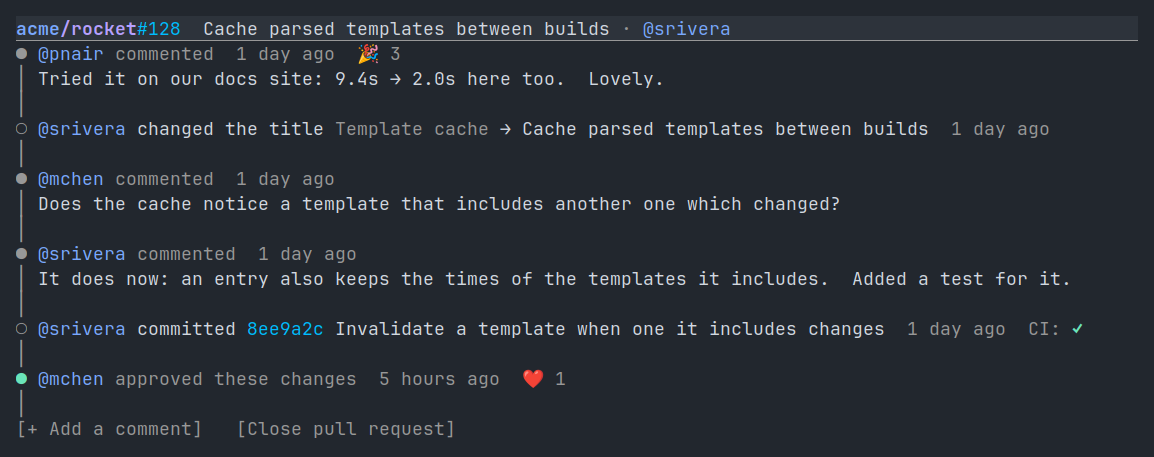
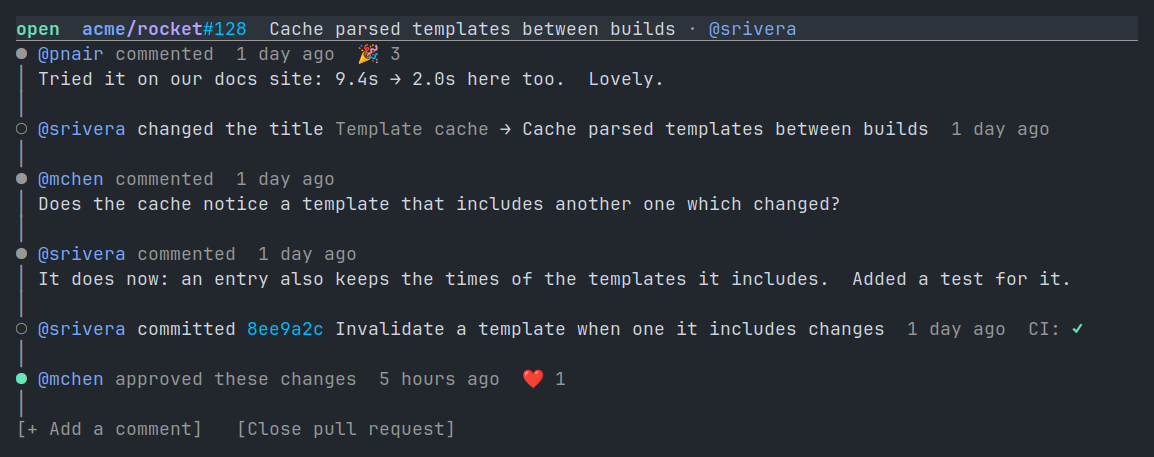
Lead a pinned title with the page's status
The state of a PR or issue, and the status of a run, job or workflow,
sat on the line under the title, so it scrolled away while the title
stayed pinned.  The header builders mark it octocat-page-status, and the
pinned copy starts with it.  The UI conventions say to mark a page's
status so.

Changed region(s): [[0.0, 0.0306, 0.6863, 0.0919]]

diff --git a/docs/user-interface-conventions.md b/docs/user-interface-conventions.md
@@ -668,6 +668,12 @@ is first.  When the line holds more, as the user page's avatar beside
 the name, give the title text an `octocat-page-title` property: only
 that is pinned.
 
+A page's status, such as an issue's or PR's state or a run's
+conclusion, is part of what it is, so it stays in view too: give it an
+`octocat-page-status` property, in the page's first few lines, and it
+leads the pinned copy (`octocat-vui-sticky-status`).  The state of
+`octocat-vui--detail-header` and `octocat-vui-actions-header` has it.
+
 Whatever stays pinned while the page scrolls under it, as this title,
 is parted from the content below by an underline across the window
 (face `octocat-sticky-title`), so the copy doesn't read as a line of

diff --git a/docs/usage.md b/docs/usage.md
@@ -539,7 +539,9 @@ On Doom Emacs, let `q` reach octocat pages with
 ### The title row in the header line
 
 Scrolled past its first line, a page shows that line, its title row,
-in the header line, so you can tell which PR or file you are in.
+in the header line, so you can tell which PR or file you are in.  A
+PR's, issue's, run's, job's or workflow's status leads it: `open`,
+`merged`, `success`.
 Each window pins it by itself, and only once the row is out of view:
 at the top of a page there is no header line.  The copy is not buffer
 text, so it doesn't affect the region, copying or search.  Clicking it

diff --git a/CHANGELOG.md b/CHANGELOG.md
@@ -4,6 +4,7 @@ All notable changes to this project will be documented in this file.
 The format is based on [Keep a Changelog](https://keepachangelog.com/en/1.0.0/).
 
 ## [Unreleased]
+* The title pinned in the header line leads with the PR's, issue's or run's status
 * Changes to one PR or issue reach GitHub in order: a merge no longer beats its approval
 * Several assignees, reviewers or labels of a PR or issue share a line of their own
 * A long field line atop a PR or issue moves its last fields to lines of their own
